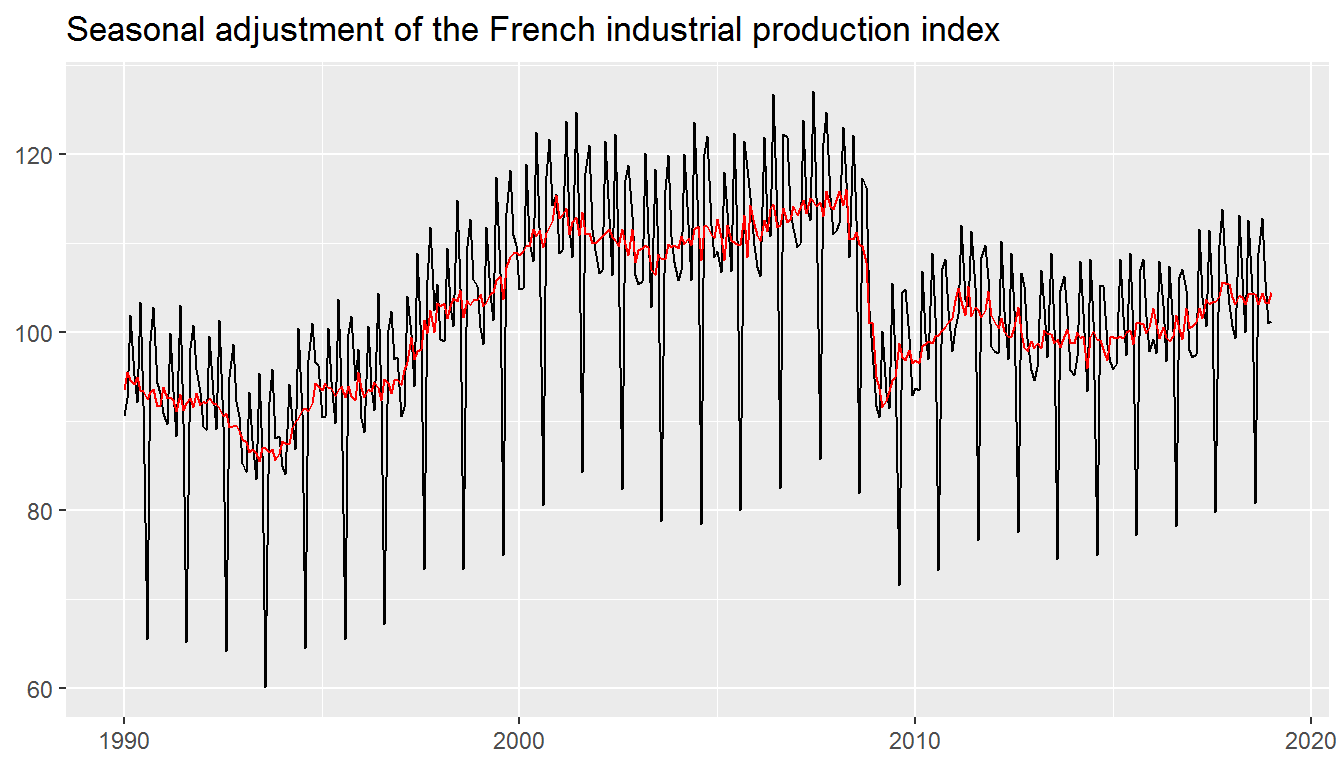
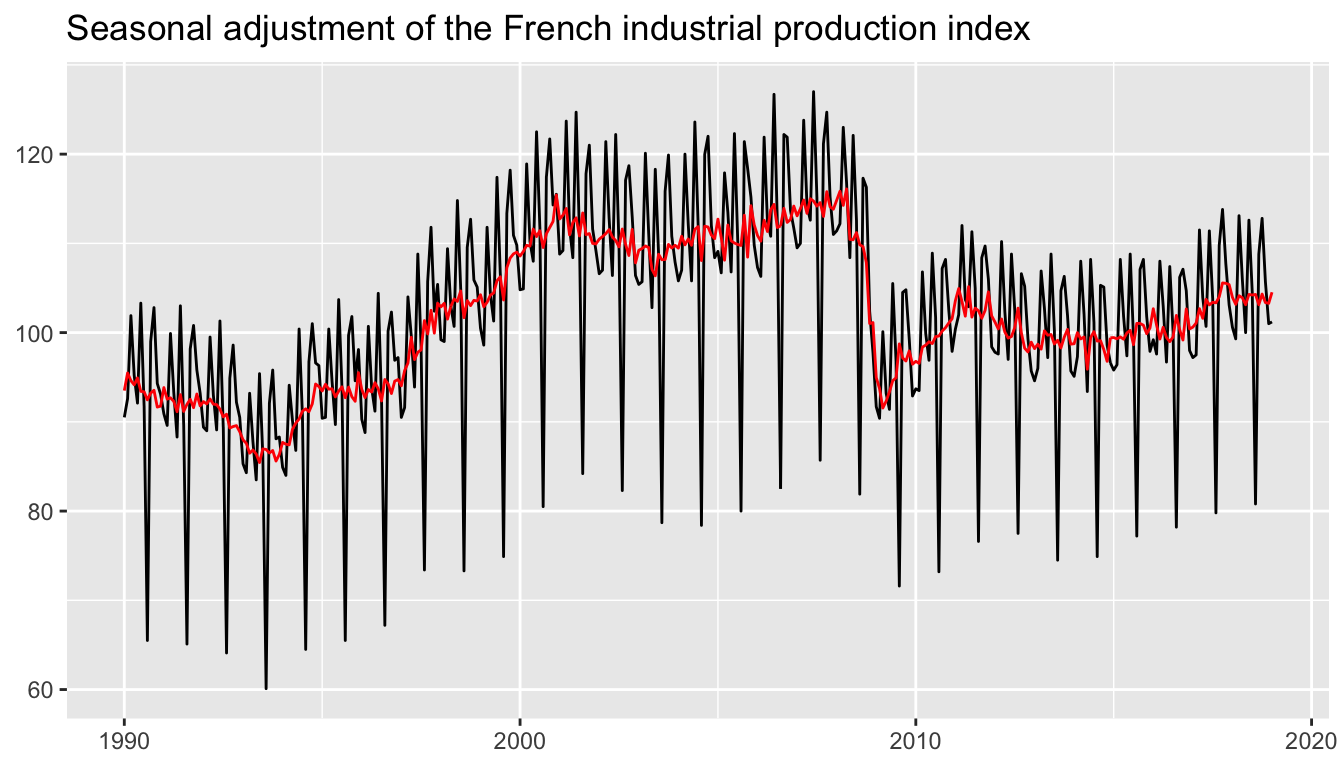
geom_arima bug fixed

diff --git a/docs/articles/ggdemetra.html b/docs/articles/ggdemetra.html
@@ -99,7 +99,7 @@
       <h1>ggdemetra: extending ggplot2 to perform seasonal adjustment with RJDemetra</h1>
                         <h4 class="author">Alain Quartier-la-Tente</h4>
             
-            <h4 class="date">2019-07-07</h4>
+            <h4 class="date">2019-08-28</h4>
       
       <small class="dont-index">Source: <a href="https://github.com/AQLT/ggdemetra/blob/master/vignettes/ggdemetra.Rmd"><code>vignettes/ggdemetra.Rmd</code></a></small>
       <div class="hidden name"><code>ggdemetra.Rmd</code></div>
@@ -138,9 +138,9 @@
 <p>In the following examples, the data used is the French industrial production index. By default, the seasonal adjustment will then be processed with X-13ARIMA with a pre-defined specification <code>"RSA5c</code> (automatic log detection, automatic ARIMA and outliers detection and trading day and easter adjustment). However, in the industrial production the working day effect has more economic sense than the trading day effect and a gradual effect for easter does not make economic sense for the aggregated series. The specification that should be used with X-13ARIMA is <code>spec = RJDemetra::x13_spec("RSA3", tradingdays.option = "WorkingDays")</code>. If no new data or seasonal adjustment specification is specified (method or specification), these parameters is inherited from the previous defined: therefore you only need to specify this parameter once.</p>
 <div class="sourceCode" id="cb1"><pre class="sourceCode r"><code class="sourceCode r"><a class="sourceLine" id="cb1-1" title="1"><span class="kw"><a href="https://www.rdocumentation.org/packages/base/topics/library">library</a></span>(ggplot2)</a>
 <a class="sourceLine" id="cb1-2" title="2"><span class="kw"><a href="https://www.rdocumentation.org/packages/base/topics/library">library</a></span>(ggdemetra)</a>
-<a class="sourceLine" id="cb1-3" title="3">p_ipi_fr &lt;-<span class="st"> </span><span class="kw">ggplot</span>(<span class="dt">data =</span> ipi_c_eu_df, <span class="dt">mapping =</span> <span class="kw">aes</span>(<span class="dt">x =</span> date, <span class="dt">y =</span> FR)) <span class="op">+</span></a>
-<a class="sourceLine" id="cb1-4" title="4"><span class="st">    </span><span class="kw">geom_line</span>() <span class="op">+</span></a>
-<a class="sourceLine" id="cb1-5" title="5"><span class="st">    </span><span class="kw">labs</span>(<span class="dt">title =</span> <span class="st">"Seasonal adjustment of the French industrial production index"</span>,</a>
+<a class="sourceLine" id="cb1-3" title="3">p_ipi_fr &lt;-<span class="st"> </span><span class="kw"><a href="https://ggplot2.tidyverse.org/reference/ggplot.html">ggplot</a></span>(<span class="dt">data =</span> ipi_c_eu_df, <span class="dt">mapping =</span> <span class="kw"><a href="https://ggplot2.tidyverse.org/reference/aes.html">aes</a></span>(<span class="dt">x =</span> date, <span class="dt">y =</span> FR)) <span class="op">+</span></a>
+<a class="sourceLine" id="cb1-4" title="4"><span class="st">    </span><span class="kw"><a href="https://ggplot2.tidyverse.org/reference/geom_path.html">geom_line</a></span>() <span class="op">+</span></a>
+<a class="sourceLine" id="cb1-5" title="5"><span class="st">    </span><span class="kw"><a href="https://ggplot2.tidyverse.org/reference/labs.html">labs</a></span>(<span class="dt">title =</span> <span class="st">"Seasonal adjustment of the French industrial production index"</span>,</a>
 <a class="sourceLine" id="cb1-6" title="6">         <span class="dt">x =</span> <span class="ot">NULL</span>, <span class="dt">y =</span> <span class="ot">NULL</span>)</a>
 <a class="sourceLine" id="cb1-7" title="7">p_ipi_fr</a></code></pre></div>
 <p><img src="ggdemetra_files/figure-html/unnamed-chunk-1-1.png" width="100%"></p>
@@ -183,7 +183,7 @@
 <a class="sourceLine" id="cb5-2" title="2"><span class="st">    </span><span class="kw"><a href="../reference/geom_outlier.html">geom_outlier</a></span>(<span class="dt">geom =</span> <span class="st">"label_repel"</span>,</a>
 <a class="sourceLine" id="cb5-3" title="3">                 <span class="dt">vjust =</span> <span class="dv">4</span>,</a>
 <a class="sourceLine" id="cb5-4" title="4">                 <span class="dt">ylim =</span> <span class="kw"><a href="https://www.rdocumentation.org/packages/base/topics/c">c</a></span>(<span class="ot">NA</span>, <span class="dv">65</span>), <span class="dt">force =</span> <span class="dv">10</span>,</a>
-<a class="sourceLine" id="cb5-5" title="5">                 <span class="dt">arrow =</span> <span class="kw">arrow</span>(<span class="dt">length =</span> <span class="kw">unit</span>(<span class="fl">0.03</span>, <span class="st">"npc"</span>),</a>
+<a class="sourceLine" id="cb5-5" title="5">                 <span class="dt">arrow =</span> <span class="kw"><a href="https://ggplot2.tidyverse.org/reference/reexports.html">arrow</a></span>(<span class="dt">length =</span> <span class="kw"><a href="https://ggplot2.tidyverse.org/reference/reexports.html">unit</a></span>(<span class="fl">0.03</span>, <span class="st">"npc"</span>),</a>
 <a class="sourceLine" id="cb5-6" title="6">                               <span class="dt">type =</span> <span class="st">"closed"</span>, <span class="dt">ends =</span> <span class="st">"last"</span>))</a></code></pre></div>
 <p><img src="ggdemetra_files/figure-html/unnamed-chunk-6-1.png" width="100%"></p>
 <p>Use the parameters <code>first_date</code> and <code>last_date</code> to only have the outliers in a precise time interval. For example, to only plot the outliers from 2009 use <code>first_date = 2009</code>:</p>
@@ -192,7 +192,7 @@
 <a class="sourceLine" id="cb6-3" title="3">                 <span class="dt">first_date =</span> <span class="dv">2009</span>,</a>
 <a class="sourceLine" id="cb6-4" title="4">                 <span class="dt">vjust =</span> <span class="dv">4</span>,</a>
 <a class="sourceLine" id="cb6-5" title="5">                 <span class="dt">ylim =</span> <span class="kw"><a href="https://www.rdocumentation.org/packages/base/topics/c">c</a></span>(<span class="ot">NA</span>, <span class="dv">65</span>), <span class="dt">force =</span> <span class="dv">10</span>,</a>
-<a class="sourceLine" id="cb6-6" title="6">                 <span class="dt">arrow =</span> <span class="kw">arrow</span>(<span class="dt">length =</span> <span class="kw">unit</span>(<span class="fl">0.03</span>, <span class="st">"npc"</span>),</a>
+<a class="sourceLine" id="cb6-6" title="6">                 <span class="dt">arrow =</span> <span class="kw"><a href="https://ggplot2.tidyverse.org/reference/reexports.html">arrow</a></span>(<span class="dt">length =</span> <span class="kw"><a href="https://ggplot2.tidyverse.org/reference/reexports.html">unit</a></span>(<span class="fl">0.03</span>, <span class="st">"npc"</span>),</a>
 <a class="sourceLine" id="cb6-7" title="7">                               <span class="dt">type =</span> <span class="st">"closed"</span>, <span class="dt">ends =</span> <span class="st">"last"</span>))</a></code></pre></div>
 <p><img src="ggdemetra_files/figure-html/unnamed-chunk-7-1.png" width="100%"></p>
 </div>
@@ -203,8 +203,7 @@
 <div class="sourceCode" id="cb7"><pre class="sourceCode r"><code class="sourceCode r"><a class="sourceLine" id="cb7-1" title="1">p_sa <span class="op">+</span><span class="st"> </span></a>
 <a class="sourceLine" id="cb7-2" title="2"><span class="st">    </span><span class="kw"><a href="../reference/geom_arima.html">geom_arima</a></span>(<span class="dt">geom =</span> <span class="st">"label"</span>,</a>
 <a class="sourceLine" id="cb7-3" title="3">               <span class="dt">x_arima =</span> <span class="op">-</span><span class="ot">Inf</span>, <span class="dt">y_arima =</span> <span class="op">-</span><span class="ot">Inf</span>, </a>
-<a class="sourceLine" id="cb7-4" title="4">               <span class="dt">vjust =</span> <span class="dv">-1</span>, <span class="dt">hjust =</span> <span class="fl">-0.1</span>)</a>
-<a class="sourceLine" id="cb7-5" title="5"><span class="co">#&gt; Frenquency used: 12</span></a></code></pre></div>
+<a class="sourceLine" id="cb7-4" title="4">               <span class="dt">vjust =</span> <span class="dv">-1</span>, <span class="dt">hjust =</span> <span class="fl">-0.1</span>)</a></code></pre></div>
 <p><img src="ggdemetra_files/figure-html/unnamed-chunk-8-1.png" width="100%"></p>
 </div>
 <div id="add-a-table-with-some-diagnostics" class="section level1">
@@ -227,12 +226,12 @@
 <a class="sourceLine" id="cb9-7" title="7">                     <span class="dt">table_theme =</span> gridExtra<span class="op">::</span><span class="kw"><a href="https://www.rdocumentation.org/packages/gridExtra/topics/tableGrob">ttheme_default</a></span>(<span class="dt">base_size =</span> <span class="dv">8</span>))</a></code></pre></div>
 <p><img src="ggdemetra_files/figure-html/unnamed-chunk-10-1.png" width="100%"></p>
 <p>To add the table below the plot, you can for example use <code><a href="https://www.rdocumentation.org/packages/gridExtra/topics/arrangeGrob">gridExtra::grid.arrange()</a></code>:</p>
-<div class="sourceCode" id="cb10"><pre class="sourceCode r"><code class="sourceCode r"><a class="sourceLine" id="cb10-1" title="1">p_diag &lt;-<span class="st"> </span><span class="kw">ggplot</span>(<span class="dt">data =</span> ipi_c_eu_df, <span class="dt">mapping =</span> <span class="kw">aes</span>(<span class="dt">x =</span> date, <span class="dt">y =</span> FR))  <span class="op">+</span></a>
+<div class="sourceCode" id="cb10"><pre class="sourceCode r"><code class="sourceCode r"><a class="sourceLine" id="cb10-1" title="1">p_diag &lt;-<span class="st"> </span><span class="kw"><a href="https://ggplot2.tidyverse.org/reference/ggplot.html">ggplot</a></span>(<span class="dt">data =</span> ipi_c_eu_df, <span class="dt">mapping =</span> <span class="kw"><a href="https://ggplot2.tidyverse.org/reference/aes.html">aes</a></span>(<span class="dt">x =</span> date, <span class="dt">y =</span> FR))  <span class="op">+</span></a>
 <a class="sourceLine" id="cb10-2" title="2"><span class="st">    </span><span class="kw"><a href="../reference/geom_diagnostics.html">geom_diagnostics</a></span>(<span class="dt">diagnostics =</span> diagnostics,</a>
 <a class="sourceLine" id="cb10-3" title="3">                     <span class="dt">spec =</span> spec,</a>
 <a class="sourceLine" id="cb10-4" title="4">                     <span class="dt">table_theme =</span> gridExtra<span class="op">::</span><span class="kw"><a href="https://www.rdocumentation.org/packages/gridExtra/topics/tableGrob">ttheme_default</a></span>(<span class="dt">base_size =</span> <span class="dv">8</span>),</a>
 <a class="sourceLine" id="cb10-5" title="5">                     <span class="dt">message =</span> <span class="ot">FALSE</span>) <span class="op">+</span><span class="st"> </span></a>
-<a class="sourceLine" id="cb10-6" title="6"><span class="st">    </span><span class="kw">theme_void</span>()</a>
+<a class="sourceLine" id="cb10-6" title="6"><span class="st">    </span><span class="kw"><a href="https://ggplot2.tidyverse.org/reference/ggtheme.html">theme_void</a></span>()</a>
 <a class="sourceLine" id="cb10-7" title="7">    </a>
 <a class="sourceLine" id="cb10-8" title="8">gridExtra<span class="op">::</span><span class="kw"><a href="https://www.rdocumentation.org/packages/gridExtra/topics/arrangeGrob">grid.arrange</a></span>(p_sa, p_diag,</a>
 <a class="sourceLine" id="cb10-9" title="9">             <span class="dt">nrow =</span> <span class="dv">2</span>, <span class="dt">heights  =</span> <span class="kw"><a href="https://www.rdocumentation.org/packages/base/topics/c">c</a></span>(<span class="dv">4</span>, <span class="fl">1.5</span>))</a></code></pre></div>

diff --git a/docs/index.html b/docs/index.html
@@ -140,15 +140,15 @@
 <div id="usage" class="section level2">
 <h2 class="hasAnchor">
 <a href="#usage" class="anchor"></a>Usage</h2>
-<p>By default, the seasonal adjustment is made with X-13-ARIMA with the pre-defined specification “RSA5c” (automatic log detection, automatic ARIMA and outliers detection and trading day and easter adjustment). If no new data or seasonal adjustment specification is specified (method or specification), these parameters is inherited from the previous defined: therefore you only need to specify the specification once. In the following examples, the seasonal adjustment will be perform with X-13-ARIMA with working day adjustment and no gradual easter effect adjustment.</p>
+<p>By default, the seasonal adjustment is made with X-13-ARIMA with the pre-defined specification “RSA5c” (automatic log detection, automatic ARIMA and outliers detection and trading day and easter adjustment). If no new data or seasonal adjustment specification is specified (method or specification), these parameters is inherited from the previous defined: therefore you only need to specify the specification once. In the following examples, the seasonal adjustment will be perform with X-13-ARIMA with working day adjustment and no gradual easter effect adjustment (it is the specification that has the most economic sense for the industrial production index).</p>
 <p>To add the seasonal adjusted series and the forecasts of the input data and of the seasonal adjusted series:</p>
 <div class="sourceCode" id="cb2"><pre class="sourceCode r"><code class="sourceCode r"><a class="sourceLine" id="cb2-1" title="1"><span class="kw"><a href="https://www.rdocumentation.org/packages/base/topics/library">library</a></span>(ggplot2)</a>
 <a class="sourceLine" id="cb2-2" title="2"><span class="kw"><a href="https://www.rdocumentation.org/packages/base/topics/library">library</a></span>(ggdemetra)</a>
 <a class="sourceLine" id="cb2-3" title="3">spec &lt;-<span class="st"> </span>RJDemetra<span class="op">::</span><span class="kw"><a href="https://www.rdocumentation.org/packages/RJDemetra/topics/x13_spec">x13_spec</a></span>(<span class="st">"RSA3"</span>, <span class="dt">tradingdays.option =</span> <span class="st">"WorkingDays"</span>)</a>
 <a class="sourceLine" id="cb2-4" title="4"></a>
-<a class="sourceLine" id="cb2-5" title="5">p_ipi_fr &lt;-<span class="st"> </span><span class="kw">ggplot</span>(<span class="dt">data =</span> ipi_c_eu_df, <span class="dt">mapping =</span> <span class="kw">aes</span>(<span class="dt">x =</span> date, <span class="dt">y =</span> FR)) <span class="op">+</span></a>
-<a class="sourceLine" id="cb2-6" title="6"><span class="st">    </span><span class="kw">geom_line</span>() <span class="op">+</span></a>
-<a class="sourceLine" id="cb2-7" title="7"><span class="st">    </span><span class="kw">labs</span>(<span class="dt">title =</span> <span class="st">"Seasonal adjustment of the French industrial production index"</span>,</a>
+<a class="sourceLine" id="cb2-5" title="5">p_ipi_fr &lt;-<span class="st"> </span><span class="kw"><a href="https://ggplot2.tidyverse.org/reference/ggplot.html">ggplot</a></span>(<span class="dt">data =</span> ipi_c_eu_df, <span class="dt">mapping =</span> <span class="kw"><a href="https://ggplot2.tidyverse.org/reference/aes.html">aes</a></span>(<span class="dt">x =</span> date, <span class="dt">y =</span> FR)) <span class="op">+</span></a>
+<a class="sourceLine" id="cb2-6" title="6"><span class="st">    </span><span class="kw"><a href="https://ggplot2.tidyverse.org/reference/geom_path.html">geom_line</a></span>() <span class="op">+</span></a>
+<a class="sourceLine" id="cb2-7" title="7"><span class="st">    </span><span class="kw"><a href="https://ggplot2.tidyverse.org/reference/labs.html">labs</a></span>(<span class="dt">title =</span> <span class="st">"Seasonal adjustment of the French industrial production index"</span>,</a>
 <a class="sourceLine" id="cb2-8" title="8">         <span class="dt">x =</span> <span class="ot">NULL</span>, <span class="dt">y =</span> <span class="ot">NULL</span>)</a>
 <a class="sourceLine" id="cb2-9" title="9">p_sa &lt;-<span class="st"> </span>p_ipi_fr <span class="op">+</span></a>
 <a class="sourceLine" id="cb2-10" title="10"><span class="st">    </span><span class="kw"><a href="reference/geom_sa.html">geom_sa</a></span>(<span class="dt">component =</span> <span class="st">"y_f"</span>, <span class="dt">linetype =</span> <span class="dv">2</span>,</a>
@@ -163,29 +163,27 @@
 <a class="sourceLine" id="cb3-3" title="3">                 <span class="dt">coefficients =</span> <span class="ot">TRUE</span>,</a>
 <a class="sourceLine" id="cb3-4" title="4">                 <span class="dt">vjust =</span> <span class="dv">4</span>,</a>
 <a class="sourceLine" id="cb3-5" title="5">                 <span class="dt">ylim =</span> <span class="kw"><a href="https://www.rdocumentation.org/packages/base/topics/c">c</a></span>(<span class="ot">NA</span>, <span class="dv">65</span>), <span class="dt">force =</span> <span class="dv">10</span>,</a>
-<a class="sourceLine" id="cb3-6" title="6">                 <span class="dt">arrow =</span> <span class="kw">arrow</span>(<span class="dt">length =</span> <span class="kw">unit</span>(<span class="fl">0.03</span>, <span class="st">"npc"</span>),</a>
+<a class="sourceLine" id="cb3-6" title="6">                 <span class="dt">arrow =</span> <span class="kw"><a href="https://ggplot2.tidyverse.org/reference/reexports.html">arrow</a></span>(<span class="dt">length =</span> <span class="kw"><a href="https://ggplot2.tidyverse.org/reference/reexports.html">unit</a></span>(<span class="fl">0.03</span>, <span class="st">"npc"</span>),</a>
 <a class="sourceLine" id="cb3-7" title="7">                               <span class="dt">type =</span> <span class="st">"closed"</span>, <span class="dt">ends =</span> <span class="st">"last"</span>))</a></code></pre></div>
 <p><img src="reference/figures/README-unnamed-chunk-4-1.png" width="700" style="display: block; margin: auto;"></p>
 <p>To add the ARIMA model:</p>
 <div class="sourceCode" id="cb4"><pre class="sourceCode r"><code class="sourceCode r"><a class="sourceLine" id="cb4-1" title="1">p_sa <span class="op">+</span><span class="st"> </span></a>
 <a class="sourceLine" id="cb4-2" title="2"><span class="st">    </span><span class="kw"><a href="reference/geom_arima.html">geom_arima</a></span>(<span class="dt">geom =</span> <span class="st">"label"</span>,</a>
 <a class="sourceLine" id="cb4-3" title="3">               <span class="dt">x_arima =</span> <span class="op">-</span><span class="ot">Inf</span>, <span class="dt">y_arima =</span> <span class="op">-</span><span class="ot">Inf</span>, </a>
-<a class="sourceLine" id="cb4-4" title="4">               <span class="dt">vjust =</span> <span class="dv">-1</span>, <span class="dt">hjust =</span> <span class="fl">-0.1</span>)</a>
-<a class="sourceLine" id="cb4-5" title="5"><span class="co">#&gt; Frenquency used: 12</span></a></code></pre></div>
+<a class="sourceLine" id="cb4-4" title="4">               <span class="dt">vjust =</span> <span class="dv">-1</span>, <span class="dt">hjust =</span> <span class="fl">-0.1</span>)</a></code></pre></div>
 <p><img src="reference/figures/README-unnamed-chunk-5-1.png" width="700" style="display: block; margin: auto;"></p>
 <p>To add a table of diagnostics below the plot:</p>
 <div class="sourceCode" id="cb5"><pre class="sourceCode r"><code class="sourceCode r"><a class="sourceLine" id="cb5-1" title="1">diagnostics &lt;-<span class="st"> </span><span class="kw"><a href="https://www.rdocumentation.org/packages/base/topics/c">c</a></span>(<span class="st">`</span><span class="dt">Combined test</span><span class="st">`</span> =<span class="st"> "diagnostics.combined.all.summary"</span>,</a>
 <a class="sourceLine" id="cb5-2" title="2">                 <span class="st">`</span><span class="dt">Residual qs-test (p-value)</span><span class="st">`</span> =<span class="st"> "diagnostics.qs"</span>,</a>
 <a class="sourceLine" id="cb5-3" title="3">                 <span class="st">`</span><span class="dt">Residual f-test (p-value)</span><span class="st">`</span> =<span class="st"> "diagnostics.ftest"</span>)</a>
-<a class="sourceLine" id="cb5-4" title="4">p_diag &lt;-<span class="st"> </span><span class="kw">ggplot</span>(<span class="dt">data =</span> ipi_c_eu_df, <span class="dt">mapping =</span> <span class="kw">aes</span>(<span class="dt">x =</span> date, <span class="dt">y =</span> FR)) <span class="op">+</span></a>
+<a class="sourceLine" id="cb5-4" title="4">p_diag &lt;-<span class="st"> </span><span class="kw"><a href="https://ggplot2.tidyverse.org/reference/ggplot.html">ggplot</a></span>(<span class="dt">data =</span> ipi_c_eu_df, <span class="dt">mapping =</span> <span class="kw"><a href="https://ggplot2.tidyverse.org/reference/aes.html">aes</a></span>(<span class="dt">x =</span> date, <span class="dt">y =</span> FR)) <span class="op">+</span></a>
 <a class="sourceLine" id="cb5-5" title="5"><span class="st">    </span><span class="kw"><a href="reference/geom_diagnostics.html">geom_diagnostics</a></span>(<span class="dt">diagnostics =</span> diagnostics,</a>
 <a class="sourceLine" id="cb5-6" title="6">                     <span class="dt">table_theme =</span> gridExtra<span class="op">::</span><span class="kw"><a href="https://www.rdocumentation.org/packages/gridExtra/topics/tableGrob">ttheme_default</a></span>(<span class="dt">base_size =</span> <span class="dv">8</span>),</a>
 <a class="sourceLine" id="cb5-7" title="7">                     <span class="dt">message =</span> <span class="ot">FALSE</span>) <span class="op">+</span><span class="st"> </span></a>
-<a class="sourceLine" id="cb5-8" title="8"><span class="st">    </span><span class="kw">theme_void</span>()</a>
+<a class="sourceLine" id="cb5-8" title="8"><span class="st">    </span><span class="kw"><a href="https://ggplot2.tidyverse.org/reference/ggtheme.html">theme_void</a></span>()</a>
 <a class="sourceLine" id="cb5-9" title="9">    </a>
 <a class="sourceLine" id="cb5-10" title="10">gridExtra<span class="op">::</span><span class="kw"><a href="https://www.rdocumentation.org/packages/gridExtra/topics/arrangeGrob">grid.arrange</a></span>(p_sa, p_diag,</a>
-<a class="sourceLine" id="cb5-11" title="11">             <span class="dt">nrow =</span> <span class="dv">2</span>, <span class="dt">heights  =</span> <span class="kw"><a href="https://www.rdocumentation.org/packages/base/topics/c">c</a></span>(<span class="dv">4</span>, <span class="fl">1.5</span>))</a>
-<a class="sourceLine" id="cb5-12" title="12"><span class="co">#&gt; Frenquency used: 12</span></a></code></pre></div>
+<a class="sourceLine" id="cb5-11" title="11">             <span class="dt">nrow =</span> <span class="dv">2</span>, <span class="dt">heights  =</span> <span class="kw"><a href="https://www.rdocumentation.org/packages/base/topics/c">c</a></span>(<span class="dv">4</span>, <span class="fl">1.5</span>))</a></code></pre></div>
 <p><img src="reference/figures/README-unnamed-chunk-6-1.png" width="700" style="display: block; margin: auto;"></p>
 <p>See the <a href="https://aqlt.github.io/ggdemetra/articles/ggdemetra.html">vignette</a> for more details.</p>
 </div>

diff --git a/docs/news/index.html b/docs/news/index.html
@@ -134,9 +134,18 @@
       <small>Source: <a href='https://github.com/AQLT/ggdemetra/blob/master/NEWS.md'><code>NEWS.md</code></a></small>
     </div>
 
-    <div id="ggdemetra-020" class="section level1">
+    <div id="ggdemetra-0-2-1" class="section level1">
 <h1 class="page-header">
-<a href="#ggdemetra-020" class="anchor"></a>ggdemetra 0.2.0<small> 2019-06-19 </small>
+<a href="#ggdemetra-0-2-1" class="anchor"></a>ggdemetra 0.2.1<small> Unreleased </small>
+</h1>
+<ul>
+<li>
+<code>geom_arima</code> bug correction (a new model was computed).</li>
+</ul>
+</div>
+    <div id="ggdemetra-0-2-0" class="section level1">
+<h1 class="page-header">
+<a href="#ggdemetra-0-2-0" class="anchor"></a>ggdemetra 0.2.0<small> 2019-06-19 </small>
 </h1>
 <ul>
 <li>If no new data or seasonal adjustment specification is specified (method or specification), these parameters is inherited from the previous defined (the seasonal adjustment is then only done once).</li>
@@ -148,7 +157,8 @@
     <div id="tocnav">
       <h2>Contents</h2>
       <ul class="nav nav-pills nav-stacked">
-        <li><a href="#ggdemetra-020">0.2.0</a></li>
+        <li><a href="#ggdemetra-0-2-1">0.2.1</a></li>
+        <li><a href="#ggdemetra-0-2-0">0.2.0</a></li>
       </ul>
     </div>
   </div>

diff --git a/README.md b/README.md
@@ -68,7 +68,8 @@ specification), these parameters is inherited from the previous defined:
 therefore you only need to specify the specification once. In the
 following examples, the seasonal adjustment will be perform with
 X-13-ARIMA with working day adjustment and no gradual easter effect
-adjustment.
+adjustment (it is the specification that has the most economic sense for
+the industrial production index).
 
 To add the seasonal adjusted series and the forecasts of the input data
 and of the seasonal adjusted series:
@@ -114,7 +115,6 @@ p_sa +
     geom_arima(geom = "label",
                x_arima = -Inf, y_arima = -Inf, 
                vjust = -1, hjust = -0.1)
-#> Frenquency used: 12
 ```
 
 <img src="man/figures/README-unnamed-chunk-5-1.png" style="display: block; margin: auto;" />
@@ -133,7 +133,6 @@ p_diag <- ggplot(data = ipi_c_eu_df, mapping = aes(x = date, y = FR)) +
     
 gridExtra::grid.arrange(p_sa, p_diag,
              nrow = 2, heights  = c(4, 1.5))
-#> Frenquency used: 12
 ```
 
 <img src="man/figures/README-unnamed-chunk-6-1.png" style="display: block; margin: auto;" />

diff --git a/NEWS.md b/NEWS.md
@@ -1,3 +1,7 @@
+# ggdemetra 0.2.1
+
+* `geom_arima` bug correction (a new model was computed).
+
 # ggdemetra 0.2.0
 
 * If no new data or seasonal adjustment specification is specified (method or specification), these parameters is inherited from the previous defined (the seasonal adjustment is then only done once).
